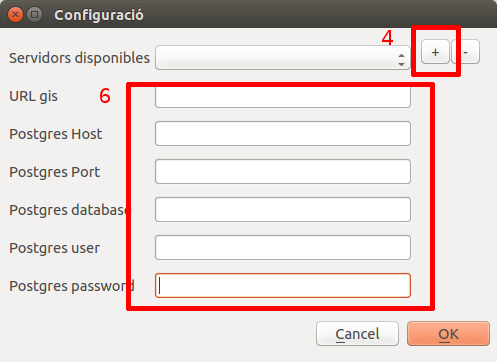
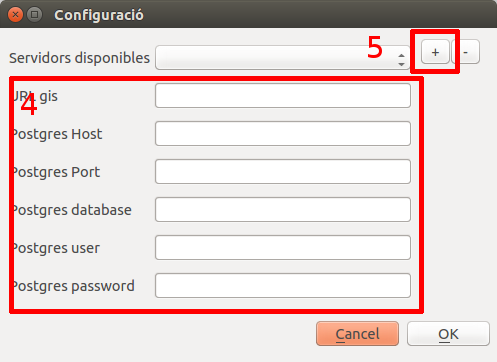
Update text order

Changed region(s): [[0.0, 0.0608, 0.996, 0.9724], [0.7243, 0.0912, 0.7847, 0.1823]]

diff --git a/docs/gis/qgis.md b/docs/gis/qgis.md
@@ -30,15 +30,11 @@ Per configurar l'accés al servidor de Giscegis s'han de fer els següents passo
 1. Connectors
 2. Giscegis
 3. Configuració
-    
+4. Omplir el camp URL gis, Postgres Host, Postgres Port, Postgres databse, Postgres user i Postgres password amb les dades facilitades
     ![1](_static/configuracio.png)
-
-4. Prémer el boto de + per afegir un nou servidor
-5. Posar el nom del nou servidor
-
+5. Prémer el boto de + per afegir un nou servidor
+6. Posar el nom del nou servidor i premer ok
     ![2](_static/dialeg.png)
-    
-6. Omplir el camp URL gis, Postgres Host, Postgres Port, Postgres databse, Postgres user i Postgres password amb les dades facilitades
 
 
 
